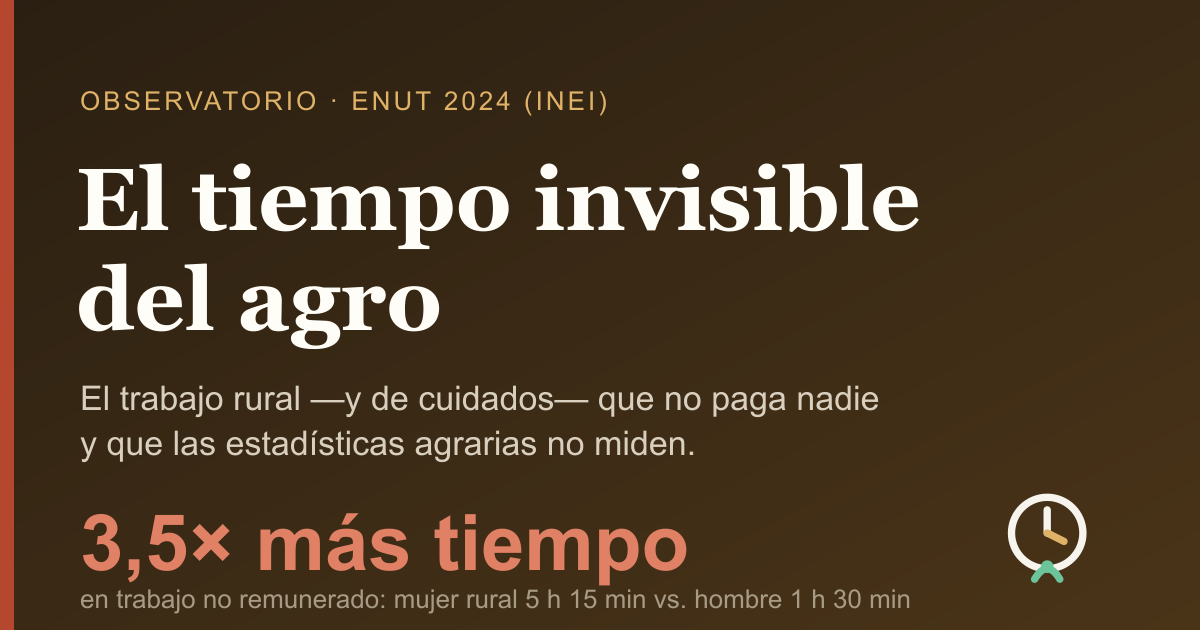
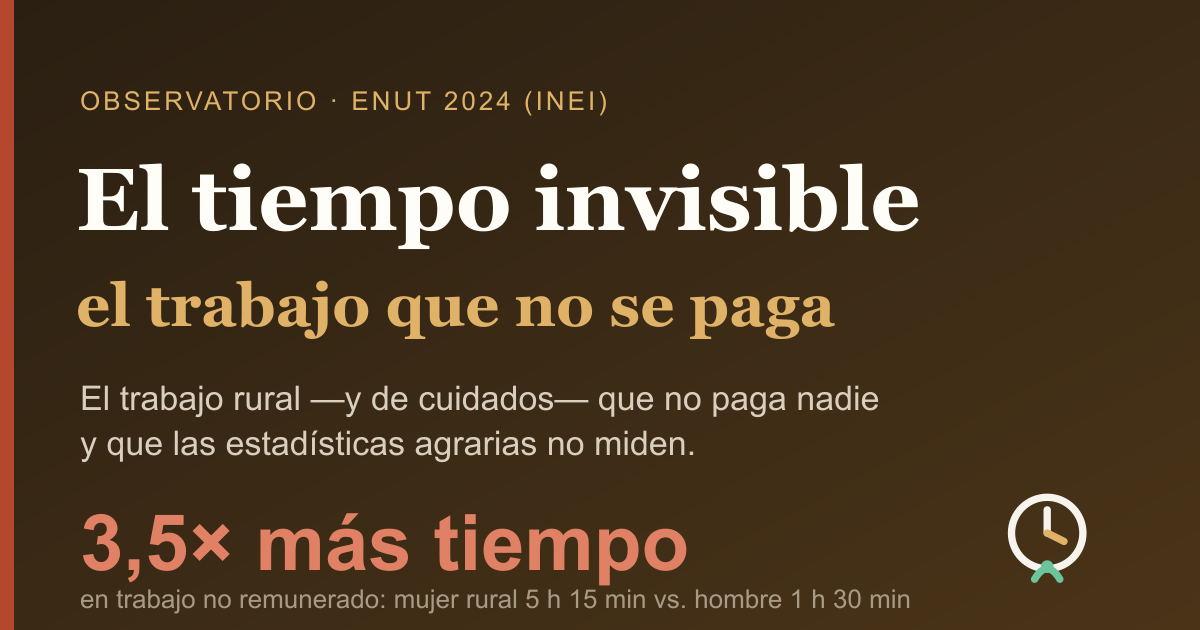
Vamos con todo: reencuadre a trabajo no remunerado/cuidados + SIMULADOR (valoriza en S/ con RMV o salario propio) + aclara ENUT≠ENA + roadmap Módulo 2 (ENA)

Changed region(s): [[0.0617, 0.4222, 0.7092, 0.573]]

diff --git a/index.html b/index.html
@@ -3,11 +3,11 @@
 <head>
 <meta charset="UTF-8">
 <meta name="viewport" content="width=device-width, initial-scale=1.0">
-<title>El tiempo invisible del agro · Observatorio del uso del tiempo rural (ENUT 2024)</title>
-<meta name="description" content="Cómo reparten sus 24 horas los hombres y mujeres del campo en el Perú, según la ENUT 2024 (INEI). El trabajo agropecuario para autoconsumo y de cuidados no remunerado que las estadísticas agrarias no miden.">
+<title>El tiempo invisible · El trabajo no remunerado en el Perú (ENUT 2024)</title>
+<meta name="description" content="Cuánto trabajo doméstico y de cuidados no remunerado sostiene los hogares del Perú, según la ENUT 2024 (INEI) — con un simulador que le pone precio a tus horas. La brecha de género es mayor en el campo.">
 <link rel="icon" href="favicon.svg" type="image/svg+xml">
-<meta property="og:title" content="El tiempo invisible del agro">
-<meta property="og:description" content="ENUT 2024 (INEI): la mujer rural dedica 3,5 veces más tiempo que el hombre al trabajo no remunerado. El trabajo agropecuario de autoconsumo y de cuidados no aparece en las estadísticas agrarias.">
+<meta property="og:title" content="El tiempo invisible — el trabajo que no se ve ni se paga">
+<meta property="og:description" content="ENUT 2024 (INEI): la mujer rural dedica 3,5 veces más tiempo que el hombre al trabajo no remunerado. Incluye un simulador que valoriza en soles tu trabajo doméstico y de cuidados.">
 <meta property="og:type" content="website">
 <meta property="og:image" content="og.png">
 <meta property="og:url" content="https://unimauro.github.io/tiempo-agrario-peru/">
@@ -142,6 +142,36 @@ section .sub{color:var(--muted);margin:12px 0 0;max-width:64ch}
 .ledger li .k{font-family:"IBM Plex Mono",monospace;font-size:12px;font-weight:600;color:var(--madder);
   border:1px solid var(--madder);border-radius:5px;padding:3px 8px;white-space:nowrap;align-self:start}
 
+/* SIMULATOR */
+.sim{margin-top:26px;display:grid;grid-template-columns:1.05fr .95fr;gap:18px;align-items:start}
+@media(max-width:760px){.sim{grid-template-columns:1fr}}
+.sim .inputs,.sim .result{background:var(--panel);border:1px solid var(--line);border-radius:14px;padding:20px;box-shadow:var(--shadow)}
+.sim .result{position:sticky;top:16px}
+.field{margin-bottom:15px}
+.field > label{display:block;font-size:13px;color:var(--muted);margin-bottom:6px;font-weight:500}
+.modebtns{display:flex;gap:8px}
+.modebtn{flex:1;padding:9px;border:1px solid var(--line);background:var(--paper);color:var(--ink);
+  border-radius:9px;cursor:pointer;font:inherit;font-size:13.5px;transition:background .16s var(--e-out),border-color .16s var(--e-out),color .16s}
+.modebtn.on{background:var(--madder);color:#fff;border-color:var(--madder)}
+.sim input[type=number]{width:100%;background:var(--paper);border:1px solid var(--line);color:var(--ink);
+  border-radius:9px;padding:9px 11px;font:inherit;font-family:"IBM Plex Mono",monospace;font-variant-numeric:tabular-nums}
+.sim input[type=number]:focus-visible{border-color:var(--madder)}
+.actrow{display:grid;grid-template-columns:1fr 94px;gap:10px;align-items:center;padding:8px 0;border-bottom:1px solid var(--line)}
+.actrow:last-child{border-bottom:none}
+.actrow .nm{font-size:13.5px;line-height:1.3}
+.actrow input[type=number]{text-align:right;padding:7px 9px}
+.result > label{display:block;font-size:13px;color:var(--muted);font-weight:500}
+.result .rnum{font-size:clamp(32px,6vw,46px);font-weight:600;color:var(--madder);line-height:1;margin-top:6px}
+.result .rsub{font-size:13px;color:var(--faint);margin:6px 0 14px}
+.result .rrow{display:flex;justify-content:space-between;gap:10px;font-size:14px;padding:9px 0;border-top:1px solid var(--line)}
+.result .rrow span:first-child{color:var(--muted)}
+.simbtn{margin:10px 8px 0 0;background:transparent;border:1px solid var(--line);color:var(--ink);
+  border-radius:9px;padding:8px 13px;font:inherit;font-size:13px;cursor:pointer;transition:border-color .16s var(--e-out),background .16s}
+@media (hover:hover) and (pointer:fine){
+  .modebtn:hover{border-color:var(--madder)}
+  .simbtn:hover{border-color:var(--madder);background:var(--paper)}
+}
+
 table{width:100%;border-collapse:collapse;font-size:14px;margin-top:20px}
 th,td{padding:11px 10px;border-bottom:1px solid var(--line);text-align:right}
 th:first-child,td:first-child{text-align:left}
@@ -187,7 +217,7 @@ footer a:hover{text-decoration:underline}
 
 <div class="wrap">
   <header class="top">
-    <span class="brand">El tiempo invisible del agro</span>
+    <span class="brand">El tiempo invisible</span>
     <button class="tbtn" id="themeToggle" aria-label="Cambiar tema claro/oscuro">◐ Tema</button>
   </header>
 
@@ -208,9 +238,9 @@ footer a:hover{text-decoration:underline}
         <ellipse cx="70" cy="128" rx="7" ry="13" transform="rotate(-28 70 128)"/>
       </g>
     </svg>
-    <span class="eyebrow"><span class="dot"></span> Observatorio del uso del tiempo rural · datos <b>ENUT 2024 (INEI)</b></span>
-    <h1>El tiempo invisible del agro</h1>
-    <p class="lede">Las estadísticas agrarias cuentan hectáreas y toneladas, pero no las horas. Así reparte sus 24 horas quien trabaja el campo en el Perú —y cuántas de esas horas no las paga nadie.</p>
+    <span class="eyebrow"><span class="dot"></span> Observatorio del trabajo no remunerado · datos <b>ENUT 2024 (INEI)</b></span>
+    <h1>El tiempo invisible</h1>
+    <p class="lede">Cocinar, limpiar, lavar, cuidar, acarrear agua. Horas de trabajo que sostienen cada hogar del Perú y que nadie paga ni cuenta. La Encuesta Nacional de Uso del Tiempo las mide: aquí las hacemos visibles —y les ponemos precio.</p>
   </div>
 
   <!-- 24h DAY STRIP (signature) -->
@@ -253,24 +283,66 @@ footer a:hover{text-decoration:underline}
     </div>
   </section>
 
-  <!-- AGRARIAN LEDGER -->
+  <!-- WHY VALUE IT -->
   <section>
-    <span class="eyebrow"><span class="dot"></span> Para el sector agrario</span>
-    <h2>Lo que el agro no mide</h2>
-    <p class="sub">El CENAGRO y las encuestas de producción registran lo que se vende. La ENUT registra algo más: el trabajo que sostiene la chacra sin figurar en ninguna planilla.</p>
+    <span class="eyebrow"><span class="dot"></span> Por qué ponerle precio</span>
+    <h2>Trabajo real, con valor económico real</h2>
+    <p class="sub">El trabajo no remunerado no entra en el PBI ni en ninguna planilla, pero sin él nada funciona. Ponerle un número es el primer paso para repartirlo mejor —en casa y en la política pública.</p>
     <div class="ledger reveal">
       <div class="bar" id="openLedger" role="button" tabindex="0" aria-haspopup="dialog">
-        El dato que no aparece en las estadísticas agrarias → ver detalle
+        Qué mide (y qué no mide) la ENUT del Perú → ver detalle
       </div>
       <div class="body">
-        <p>La producción agropecuaria <b>para autoconsumo</b> —sembrar, cosechar, cuidar animales para el propio hogar— cuenta como trabajo en la ENUT aunque no genere ingreso ni empleo formal. Gran parte lo hacen mujeres y familiares <b>sin remuneración</b>: por eso son invisibles en las cifras del sector.</p>
+        <p>La ENUT peruana se centra en el <b>trabajo doméstico y de cuidados</b>: quién cocina, quién limpia, quién cuida a niñas, niños, enfermos y adultos mayores, cuánto se tarda en acarrear agua. Ese trabajo recae sobre todo en las mujeres —y en el campo, aún más.</p>
         <ul>
-          <li><span class="k">Política</span><span>Titulación de tierras, crédito y asistencia técnica dirigidos también a quien realmente trabaja la parcela.</span></li>
-          <li><span class="k">Cuidados</span><span>La doble jornada rural (chacra + hogar) justifica servicios de cuidado e infraestructura básica en el campo.</span></li>
-          <li><span class="k">Medición</span><span>Integrar el uso del tiempo a las estadísticas agropecuarias para valorar el aporte del trabajo no remunerado.</span></li>
+          <li><span class="k">Cuidados</span><span>Visibilizar la doble jornada (empleo + hogar) justifica servicios de cuidado e infraestructura básica, sobre todo en zonas rurales.</span></li>
+          <li><span class="k">Hogar</span><span>Poner en soles el aporte de cada persona abre una conversación —muchas veces evitada— sobre cómo se reparten las tareas en casa.</span></li>
+          <li><span class="k">Política</span><span>Un valor económico medible da sustento técnico para pedir presupuesto y diseñar políticas que reduzcan las brechas.</span></li>
         </ul>
       </div>
     </div>
+  </section>
+
+  <!-- SIMULATOR -->
+  <section id="simulador">
+    <span class="eyebrow"><span class="dot"></span> Simulador</span>
+    <h2>¿Cuánto vale tu trabajo no remunerado?</h2>
+    <p class="sub">Pon tus horas semanales en cada tarea. Lo valoramos con el sueldo mínimo —o con tu propio salario como costo de oportunidad— y te decimos cuánto aportas, en soles, cada mes.</p>
+    <div class="sim reveal">
+      <div class="inputs">
+        <div class="field">
+          <label>Valorar cada hora con…</label>
+          <div class="modebtns" role="group" aria-label="Base de valoración">
+            <button class="modebtn on" data-mode="min" type="button">Sueldo mínimo</button>
+            <button class="modebtn" data-mode="own" type="button">Mi salario</button>
+          </div>
+        </div>
+        <div class="field" id="rmvField">
+          <label for="rmv">Remuneración Mínima Vital (S/ al mes) · ajustable</label>
+          <input type="number" id="rmv" value="1025" min="0" step="25" inputmode="numeric">
+        </div>
+        <div class="field" id="ownField" hidden>
+          <label for="own">Tu salario mensual (S/)</label>
+          <input type="number" id="own" value="3000" min="0" step="100" inputmode="numeric">
+        </div>
+        <div class="field">
+          <label>Horas por semana en cada actividad</label>
+          <div id="acts"></div>
+        </div>
+        <button class="simbtn" id="exampleBtn" type="button">Cargar ejemplo</button>
+        <button class="simbtn" id="clearBtn" type="button">Limpiar</button>
+      </div>
+      <div class="result" aria-live="polite">
+        <label>Tu trabajo no remunerado vale, al mes</label>
+        <div class="rnum mono" id="rMonth">S/ 0</div>
+        <div class="rsub" id="rNote">Agrega tus horas para ver el resultado.</div>
+        <div class="rrow"><span>Horas no remuneradas / semana</span><span class="mono" id="rHours">0</span></div>
+        <div class="rrow"><span>Valor por hora</span><span class="mono" id="rHourly">S/ 0,00</span></div>
+        <div class="rrow"><span>Al año</span><span class="mono" id="rYear">S/ 0</span></div>
+        <div class="rrow"><span>Equivale a</span><span class="mono" id="rMult">0 sueldos mín.</span></div>
+      </div>
+    </div>
+    <p class="srcline">Método: valor = horas/semana × 4,33 semanas × valor-hora. Valor-hora = ingreso mensual ÷ 208 horas (jornada de 48 h/semana). Valorización referencial del trabajo no remunerado (enfoque de costo de reemplazo / oportunidad), inspirada en el simulador del INEGI (México) y en la ENUT. La RMV es ajustable al valor vigente.</p>
   </section>
 
   <!-- CARGA GLOBAL -->
@@ -306,7 +378,8 @@ footer a:hover{text-decoration:underline}
 
   <footer>
     <p><b>Fuente oficial:</b> INEI — Encuesta Nacional de Uso del Tiempo (ENUT) 2024, Principales Resultados. <a href="https://www.gob.pe/institucion/inei/campa%C3%B1as/99771-resultados-de-la-encuesta-nacional-de-uso-del-tiempo-enut" target="_blank" rel="noopener">Ver en gob.pe</a></p>
-    <p>Observatorio independiente de datos públicos · Las cifras provienen íntegramente de fuentes oficiales · Octubre 2026</p>
+    <p><b>Módulo 1 · Uso del tiempo (ENUT).</b> Próximo módulo: <b>Mujer en la agricultura</b>, con la Encuesta Nacional Agraria (ENA) del INEI — brechas de las productoras, pérdidas de cultivos y cortes por región.</p>
+    <p>Observatorio independiente de datos públicos · Las cifras provienen íntegramente de fuentes oficiales; el simulador es una valorización referencial · Octubre 2026</p>
   </footer>
 </div>
 
@@ -317,9 +390,9 @@ footer a:hover{text-decoration:underline}
     <h3 id="mTitle">¿Cómo se mide el tiempo?</h3>
     <p>La <b>ENUT</b> pregunta a las personas de 12 años y más cuánto tiempo dedicaron a cada actividad durante la semana. Los resultados se ordenan en tres grandes grupos cuya suma es un día completo.</p>
     <p><b>Tiempo social</b> — el que usa este observatorio en el reparto del día — promedia las horas sobre <b>toda la población</b>, haya hecho o no la actividad. Por eso las columnas suman ~24 h y se pueden comparar grupos directamente.</p>
-    <p>La ENUT también publica el tiempo <b>entre quienes sí realizan</b> cada actividad (cuadros III.4.2 y III.5.2), que arroja promedios más altos, p. ej. 5 h 26 min de trabajo no remunerado en la mujer rural. Ambas miradas son válidas: una compara poblaciones, la otra describe a quien hace la tarea.</p>
     <p><b>Trabajo no remunerado</b> incluye el doméstico, el de cuidados a integrantes del hogar y el apoyo a otros hogares y la comunidad. <b>En la ocupación y producción</b> incluye el empleo para el mercado y la producción de bienes para autoconsumo (agricultura, ganadería, pesca).</p>
-    <p class="srcline">INEI — ENUT 2024. Marco conceptual de carga global de trabajo: CEPAL.</p>
+    <p>La ENUT peruana se enfoca sobre todo en <b>cuidados y trabajo doméstico</b>. No es la fuente para el análisis agrario de fondo: ese trabajo —brechas de las mujeres productoras, pérdidas de cultivos— sale de la <b>Encuesta Nacional Agraria (ENA)</b>, que será un módulo aparte de este observatorio.</p>
+    <p class="srcline">INEI — ENUT 2024 (cuadros III.2.3.1 y III.2.3.2; el tiempo entre quienes realizan cada actividad está en los cuadros III.4.2 y III.5.2). Marco de carga global de trabajo: CEPAL.</p>
   </div>
 </div>
 
@@ -402,6 +475,67 @@ ledgerBtn.addEventListener('keydown',e=>{if(e.key==='Enter'||e.key===' '){e.prev
 document.getElementById('closeModal').addEventListener('click',closeModal);
 backdrop.addEventListener('click',e=>{if(e.target===backdrop)closeModal();});
 document.addEventListener('keydown',e=>{if(e.key==='Escape'&&backdrop.classList.contains('open'))closeModal();});
+
+/* ---- Simulador del trabajo no remunerado ---- */
+(function(){
+  const ACTS=[
+    ['a1','Preparación de alimentos'],
+    ['a2','Limpieza de la vivienda'],
+    ['a3','Lavado y cuidado de la ropa'],
+    ['a4','Compras y trámites del hogar'],
+    ['a5','Cuidado de niñas y niños'],
+    ['a6','Cuidado de personas enfermas o adultas mayores'],
+    ['a7','Acarreo de agua o leña']
+  ];
+  const MONTH_HOURS=208;        // 48 h/sem × 4.33 sem
+  const WEEKS=4.33;
+  const acts=document.getElementById('acts');
+  if(!acts) return;
+  acts.innerHTML=ACTS.map(([id,nm])=>
+    `<div class="actrow"><span class="nm">${nm}</span>`+
+    `<input type="number" id="${id}" min="0" max="120" step="0.5" value="0" inputmode="decimal" aria-label="${nm}, horas por semana"></div>`
+  ).join('');
+
+  const pen=new Intl.NumberFormat('es-PE',{style:'currency',currency:'PEN',maximumFractionDigits:0});
+  const pen2=new Intl.NumberFormat('es-PE',{style:'currency',currency:'PEN',minimumFractionDigits:2,maximumFractionDigits:2});
+  const num=new Intl.NumberFormat('es-PE',{maximumFractionDigits:1});
+  const $=id=>document.getElementById(id);
+  let mode='min';
+
+  function val(id){const v=parseFloat($(id).value);return isNaN(v)||v<0?0:v;}
+  function calc(){
+    const base = mode==='own' ? val('own') : val('rmv');
+    const hourly = base>0 ? base/MONTH_HOURS : 0;
+    const hrs = ACTS.reduce((s,[id])=>s+val(id),0);
+    const month = hrs*WEEKS*hourly;
+    $('rHours').textContent=num.format(hrs)+' h';
+    $('rHourly').textContent=pen2.format(hourly);
+    $('rMonth').textContent=pen.format(month);
+    $('rYear').textContent=pen.format(month*12);
+    const rmv=val('rmv');
+    const mult = rmv>0 ? month/rmv : 0;
+    $('rMult').textContent=num.format(mult)+(Math.abs(mult-1)<0.05?' sueldo mín.':' sueldos mín.');
+    $('rNote').textContent = hrs>0
+      ? `${num.format(hrs)} horas semanales de trabajo que no se pagan.`
+      : 'Agrega tus horas para ver el resultado.';
+  }
+
+  acts.addEventListener('input',calc);
+  ['rmv','own'].forEach(id=>$(id).addEventListener('input',calc));
+  document.querySelectorAll('.modebtn').forEach(b=>b.addEventListener('click',()=>{
+    document.querySelectorAll('.modebtn').forEach(x=>x.classList.remove('on'));
+    b.classList.add('on'); mode=b.dataset.mode;
+    $('ownField').hidden = mode!=='own';
+    $('rmvField').hidden = false;   // la RMV siempre visible (sirve como referencia del multiplicador)
+    calc();
+  }));
+  $('exampleBtn').addEventListener('click',()=>{
+    const ex={a1:10,a2:7,a3:5,a4:3,a5:10,a6:2,a7:1};   // ejemplo ilustrativo, no es un dato oficial
+    ACTS.forEach(([id])=>$(id).value=ex[id]??0); calc();
+  });
+  $('clearBtn').addEventListener('click',()=>{ACTS.forEach(([id])=>$(id).value=0);calc();});
+  calc();
+})();
 
 /* ---- Theme ---- */
 const root=document.documentElement;
